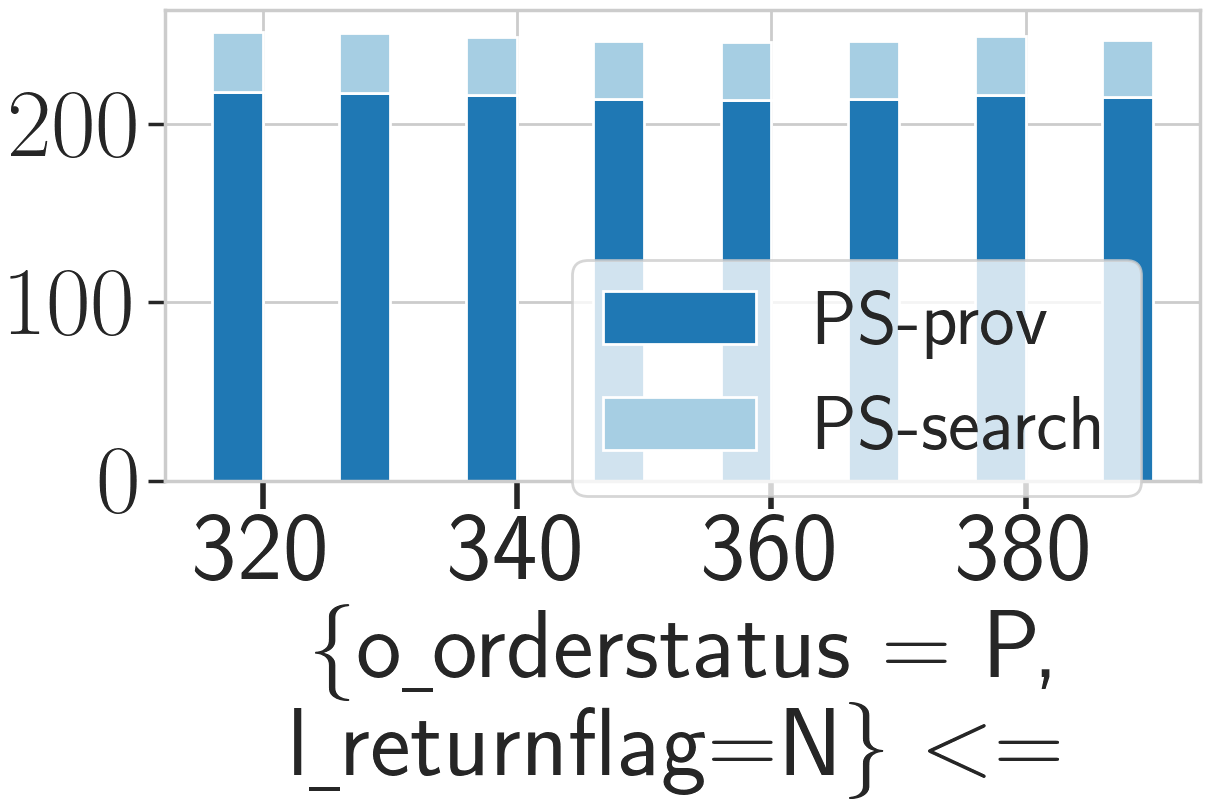
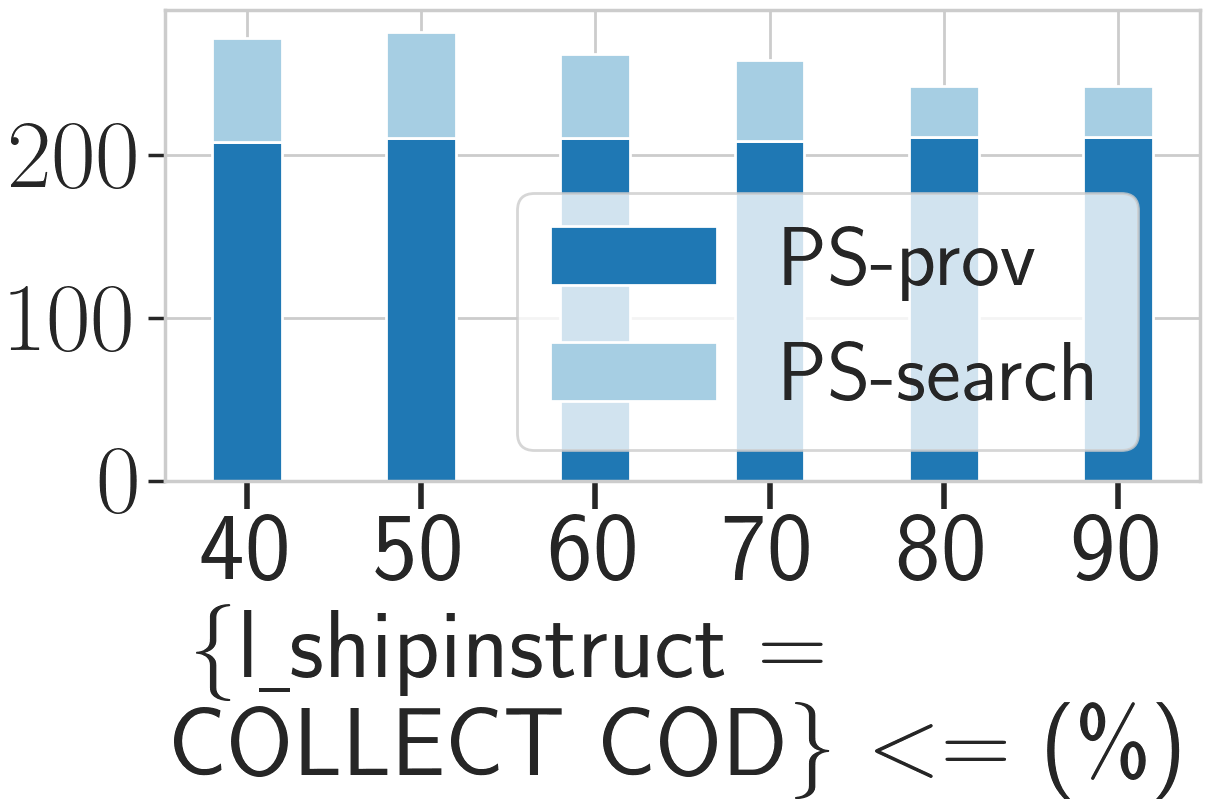
10G constraint change q3 contract

diff --git a/Experiment/TPCH/10G/constraint_change/q3_contract2/constraint_change_q3_contract.py b/Experiment/TPCH/10G/constraint_change/q3_contract2/constraint_change_q3_contract.py
@@ -14,7 +14,6 @@ from Algorithm import ProvenanceSearchValues_8_20230119 as ps
 from Algorithm import LatticeTraversal_5_20230121 as lt
 
 minimal_refinements1 = []
-minimal_added_refinements1 = []
 running_time1 = []
 
 minimal_refinements2 = []
@@ -23,7 +22,7 @@ running_time2 = []
 
 data_file_prefix = r"../../../../../InputData/TPC-H/10Gdata/"
 query_file_prefix = r"./q"
-time_limit = 5 * 60
+time_limit = 10 * 60
 
 time_output_prefix = r"./result_"
 
@@ -41,13 +40,13 @@ def run_constraint(q, c):
     result_output = open(result_output_file, "w")
     result_output.write("selection file, result\n")
 
-    for i in range(1, 9):
+    for i in range(1, 7):
         print("constraint {}\n".format(i))
         constraint_file = r"./constraint_" + c + str(i) + ".json"
         print("========================== provenance search ===================================")
         minimal_refinements1, running_time1, _, \
             provenance_time1, search_time1 = \
-            ps.FindMinimalRefinement(data_file_prefix, separator, query_file, constraint_file, time_limit)
+            ps.FindMinimalRefinement(data_file_prefix, separator, query_file, constraint_file, data_file_format, time_limit)
 
         print("running time = {}".format(running_time1))
         print(*minimal_refinements1, sep="\n")
@@ -72,7 +71,7 @@ def run_constraint(q, c):
             time_output.write("{},{:0.2f},{:0.2f},{:0.2f},,,\n".format(idx, running_time1, provenance_time1,
                                                                        search_time1))
         result_output.write("{}\n".format(idx))
-        result_output.write(",".join(str(item) for item in minimal_added_refinements1))
+        result_output.write(",".join(str(item) for item in minimal_refinements1))
         result_output.write("\n")
         result_output.write("\n".join(str(item) for item in minimal_refinements1))
         result_output.write("\n")
@@ -81,5 +80,6 @@ def run_constraint(q, c):
 
 
 separator = '|'
+data_file_format = '.tbl'
 
 run_constraint(3, "contract")

diff --git a/Experiment/TPCH/10G/constraint_change/q3_contract2/fig.py b/Experiment/TPCH/10G/constraint_change/q3_contract2/fig.py
@@ -57,8 +57,7 @@ def run(query, size, constraint):
         else:
             execution_timebl1.append(0)
             execution_timebl2.append(0)
-    # x_list = [19941230, 19950115, 19950130, 19950215, 19950230, 19950315, 19950330, 19950415]
-    x_list = ['320', '340', '360', '380']
+    x_list = [40, 50, 60, 70, 80, 90]
 
     print(x_list, execution_timeps1, execution_timeps2)
 
@@ -80,11 +79,11 @@ def run(query, size, constraint):
     # plt.bar(index + bar_width, execution_timebl2, bar_width, bottom=execution_timebl1,
     #         color=color[3], label=label[3])
     #
-    plt.xticks(np.arange(0, 8, 2) + bar_width/2, x_list, rotation=0, fontsize=70)
+    plt.xticks(np.arange(0, 6, 1), x_list, rotation=0, fontsize=70)
     plt.yticks(fontsize=70, weight='bold')
+    plt.xlabel(r'\{l\underline{ }shipinstruct = \\COLLECT COD\} $<=$ (\%)', fontsize=70, weight='bold')
 
-    plt.xlabel(r'\{o\underline{ }orderstatus = P, \\l\underline{ }returnflag=N\} $<=$')
-    plt.legend(loc='upper right', bbox_to_anchor=(0.98, 0.55), fontsize=55)
+    plt.legend(loc='upper right', bbox_to_anchor=(0.98, 0.7), fontsize=60)
     # plt.legend(loc="best", fontsize=60)
     plt.tight_layout()
     fig_path = "constraint_change_q" + str(query) + "_" + size + "_" + constraint + ".png"
